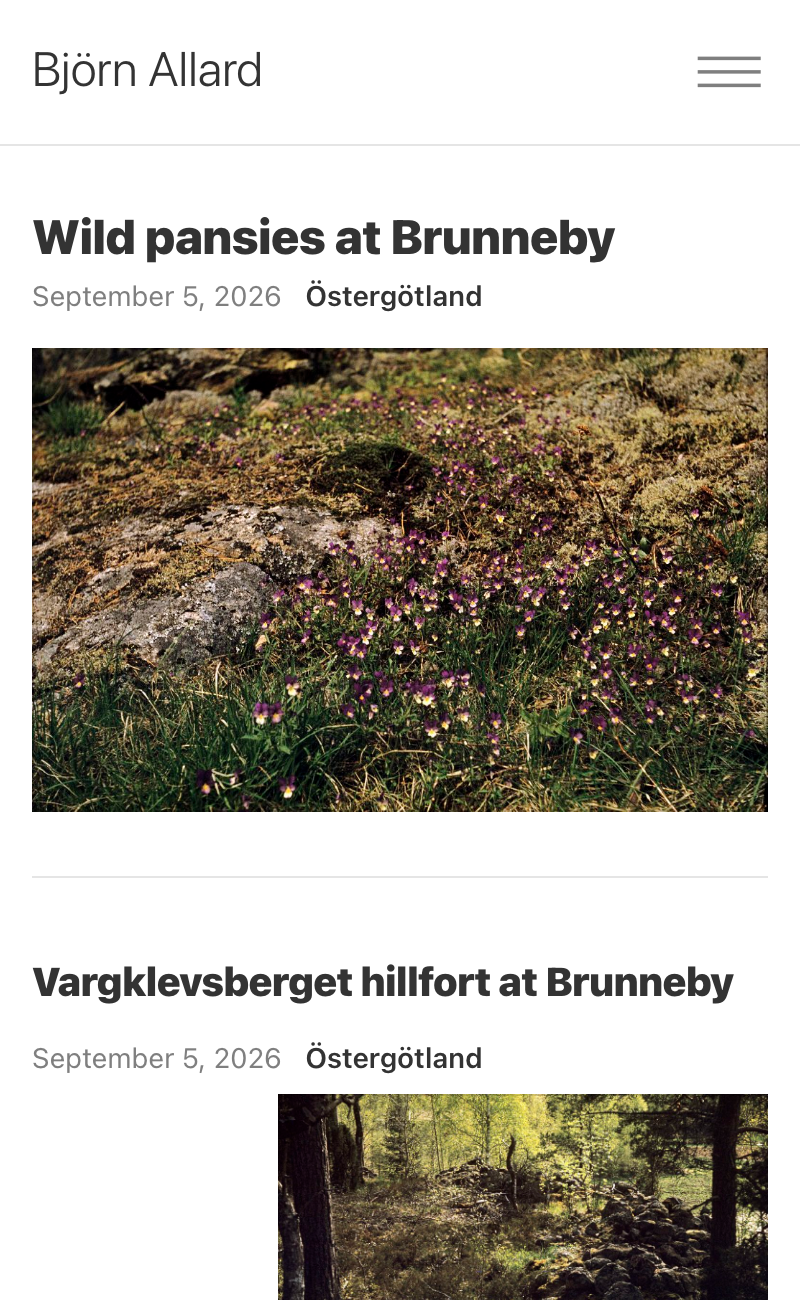
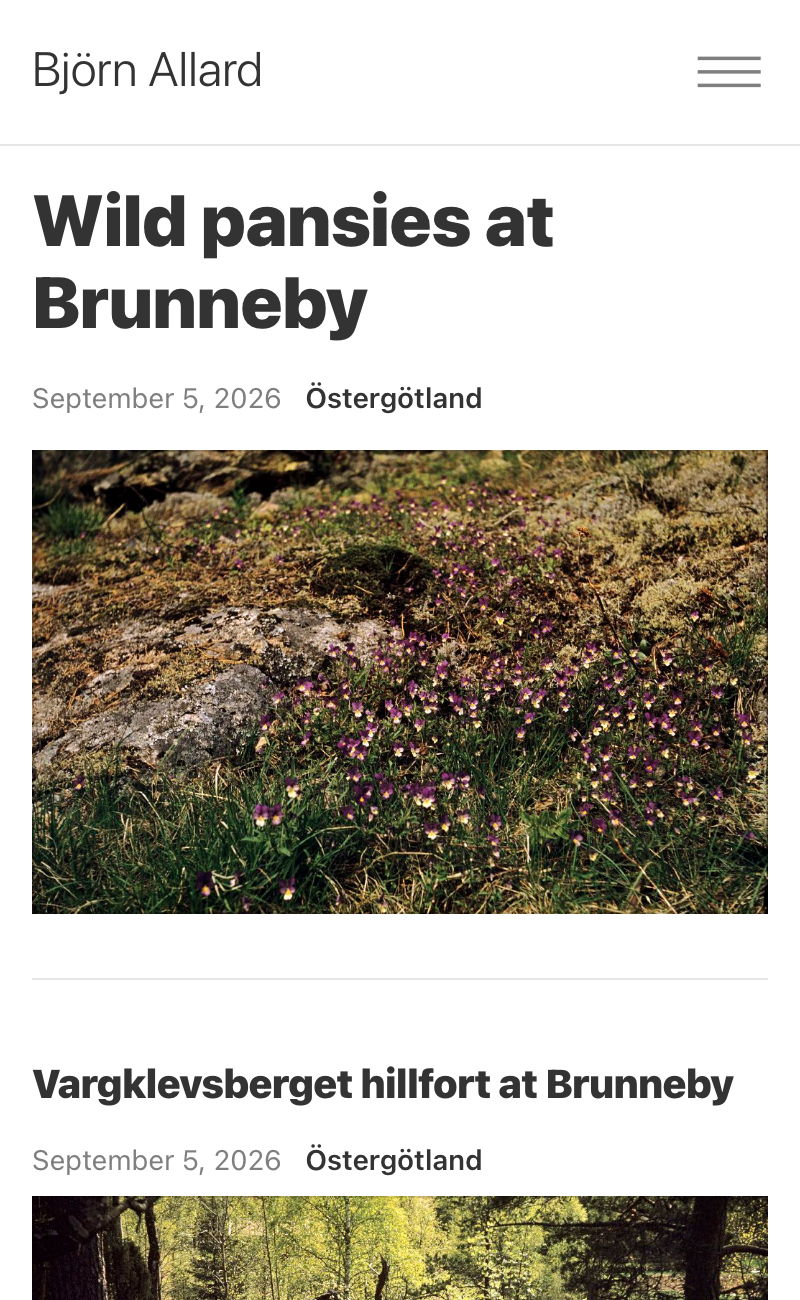
Fix Magazine homepage hero and index grid

diff --git a/app/templates/source/magazine/_featured.html b/app/templates/source/magazine/_featured.html
@@ -1,50 +1,27 @@
-<a class="dim  pv4 db lh-copy no-underline   "  href="{{{url}}}">
-
-      {{#summary}}
-       <span class="db fr w-two-thirds">
-        <span class="db" style="max-height:23.4375rem;overflow:hidden">
-        {{#thumbnail.medium}}
-       <img class="thumbnail-frame" style="width:100%;vertical-align:bottom" src="{{{url}}}">
-        {{/thumbnail.medium}}
-        </span>
-
-      </span>
-      
-      <span class="db fl w-third" style="">
-      <span class="mr4 fw9 black-80 db lh-title f3 mb3 tracked-tight">{{title}}</span>
-      <span class="mr4 black-50 mr3 f6 lh-copy db" style="text-overflow:ellipsis;max-height:9.1875rem;overflow:hidden">{{summary}}</span>      
-     <span class=" db f6 mt4 " style="height:1.5em;overflow:hidden">
-        {{#date}}<span date-from-now="{{dateStamp}}" class="dib black-50 mr2">{{date}}</span>{{/date}}
-        <span class="dib fw6 clip-2 black-80">{{#tags}}<span class="dib">{{^first}} &amp; {{/first}}{{tag}}</span>{{/tags}}</span>
+<a class="dim pv4 db lh-copy no-underline" href="{{{url}}}">
+  <span class="db fr w-two-thirds">
+    <span class="db thumbnail-frame" style="max-height:23.4375rem;overflow:hidden">
+      {{#thumbnail.large}}
+      <img style="width:100%;vertical-align:bottom" src="{{{url}}}">
+      {{/thumbnail.large}}
+      {{^thumbnail.large}}
+      {{#thumbnail.medium}}
+      <img style="width:100%;vertical-align:bottom" src="{{{url}}}">
+      {{/thumbnail.medium}}
+      {{/thumbnail.large}}
     </span>
-      </span>
-      {{/summary}}
+  </span>
 
-      {{^summary}}
-      <span class="w-100" style="">
-        <span class=" fw9 black-80 db lh-title f3 tracked-tight">{{title}}</span>
+  <span class="db fl w-third">
+    <span class="mr4 fw9 black-80 db lh-title f3 mb3 tracked-tight">{{title}}</span>
+    {{#summary}}
+    <span class="mr4 black-50 f6 lh-copy db" style="text-overflow:ellipsis;max-height:9.1875rem;overflow:hidden">{{summary}}</span>
+    {{/summary}}
+    <span class="db f6 {{#summary}}mt4{{/summary}}{{^summary}}mt1{{/summary}}" style="height:1.5em;overflow:hidden">
+      {{#date}}<span date-from-now="{{dateStamp}}" class="dib black-50 mr2">{{date}}</span>{{/date}}
+      <span class="dib fw6 clip-2 black-80">{{#tags}}<span class="dib">{{^first}}&nbsp;&amp;&nbsp;{{/first}}{{tag}}</span>{{/tags}}</span>
+    </span>
+  </span>
 
-       <span class=" db f6 mt1 mb3" style="height:1.5em;overflow:hidden">
-          {{#date}}<span date-from-now="{{dateStamp}}" class="dib black-50 mr2">{{date}}</span>{{/date}}
-          <span class="dib fw6 clip-2 black-80">{{#tags}}<span class="dib">{{^first}} &amp; {{/first}}{{tag}}</span>{{/tags}}</span>
-      </span>
-
-
-        <span class="db">
-        {{#thumbnail.large}}
-       <img class="thumbnail-frame" style="width:100%;vertical-align:bottom" src="{{{url}}}">
-        {{/thumbnail.large}}
-        </span>
-      </span>
-      
-
-
-      {{/summary}}
-
-
-     
-      </span>
-
-
-      <span class="cf"></span>
-      </a>
+  <span class="cf"></span>
+</a>

diff --git a/app/templates/source/magazine/css-theme.css b/app/templates/source/magazine/css-theme.css
@@ -229,7 +229,6 @@ a:hover {color:{{accent_color}}}
 a.dim {transition: opacity .2s linear;opacity:1}
 a.dim:hover {opacity:0.8}
 a.dim:active {opacity:0.5}
-a.dim:visited {opacity:0.3}
   
 hr {
   margin: 3em auto;
@@ -386,6 +385,48 @@ figure cite, figure cite a {font-size:0.8rem;color:rgba({{#rgb}}{{text_color}}{{
   {{/heading_font}}
 }
 
+/* Homepage hero titles should follow the heading size control.
+   They are spans (not h1), so they otherwise stay at Tachyons .f3. */
+.featured-entry .lh-title {
+  {{#heading_font}}
+  font-size: {{font_size}}px;
+  line-height: {{line_height}};
+  {{/heading_font}}
+}
+
+/* Index rows used floats inside an inline flex wrapper, so percentage
+   columns sized against their contents and the hero/grid collapsed.
+   Flex with a definite width keeps title | image side by side. */
+.featured-entry > a,
+.entry-line {
+  display: flex;
+  flex-wrap: wrap;
+  align-items: flex-start;
+  width: 100%;
+  min-width: 0;
+}
+
+.featured-entry > a > .w-third,
+.featured-entry > a > .w-two-thirds,
+.entry-line > .w-third,
+.entry-line > .w-two-thirds {
+  float: none;
+}
+
+.featured-entry > a > .cf,
+.entry-line > .cf {
+  display: none;
+}
+
+/* Image is first in the featured markup (it used to float right). */
+.featured-entry > a > .w-third { order: 1; }
+.featured-entry > a > .w-two-thirds { order: 2; }
+
+.entry-line-rule {
+  flex-basis: 100%;
+  width: 100%;
+}
+
 /* Let the configured body line height reach the article body, which
    Tachyons' .lh-copy would otherwise pin to 1.5 */
 .entry .lh-copy {
@@ -416,6 +457,7 @@ h3.f6 {line-height:1.25;}
   .featured-entry .w-two-thirds,
   .featured-entry .w-third {width:50%}
   .entry-line .title-block {width:100%}
+  .entry-line .w-two-thirds {width:100%}
   .entry.w-80 {width:100%}
   /* Date and tags on entry page */
   .w-20.bl.fr {margin-top:0;padding-top:0;border:none;width:100%;float:none;padding-left:0;padding-bottom:2rem}
@@ -441,6 +483,7 @@ h3.f6 {line-height:1.25;}
 @media (max-width:500px) {
   .w-80.pr4 {padding-right:0;width:100%}
   .featured-entry .w-two-thirds,
+  .entry-line .w-two-thirds,
   .entry-line .w-third,    
   .featured-entry .w-third {width:100%}
   .entry-line .ml3,
@@ -450,7 +493,7 @@ h3.f6 {line-height:1.25;}
     margin-bottom:0.5rem;
     margin-top:0.5rem;
   }
-  .featured-entry .lh-title {margin-top:1rem}
+  .featured-entry .w-two-thirds {margin-top:1rem}
   .featured-entry a {padding-top:0}
   
   h3.f6 {font-size: 0.7rem;line-height: 1.8}

diff --git a/app/templates/source/magazine/entry_line.html b/app/templates/source/magazine/entry_line.html
@@ -1,18 +1,16 @@
 <a class="entry-line dim pb4 db lh-copy no-underline w-100" href="{{{url}}}">
-    
-  
-  <span class="{{^first}}bt{{/first}} mb4 db b--black-10"></span>
-  
-    
+
+  <span class="entry-line-rule {{^first}}bt{{/first}} mb4 db b--black-10"></span>
+
   <span class="w-third fl db mb2 title-block">
       <span class="mr4 db fw9 black-80  lh-title tracked-tight f4 pb2">{{title}}</span>
       <span class="mr3 db f6 " style="height:1.5em;overflow:hidden">
-          {{#date}}<span date-from-now="{{dateStamp}}" class="dib black-50 mr2">{{date}}</span>{{/date}} 
-          <span class="fw6 clip-2 black-80">{{#tags}}<span class="dib">{{^first}} &amp; {{/first}}{{tag}}</span>{{/tags}}</span>
+          {{#date}}<span date-from-now="{{dateStamp}}" class="dib black-50 mr2">{{date}}</span>{{/date}}
+          <span class="fw6 clip-2 black-80">{{#tags}}<span class="dib">{{^first}}&nbsp;&amp;&nbsp;{{/first}}{{tag}}</span>{{/tags}}</span>
       </span>
     </span>
 
-  
+
   {{#summary}}
 
   <span class="w-third db fr">
@@ -22,10 +20,10 @@
     {{/thumbnail.medium}}
     </span>
    </span>
-    
+
   <span class="w-third fl db">
     <span class="mr3 black-50 f6 db" style="text-overflow:ellipsis;max-height:9.1875rem;overflow:hidden">
-      {{summary}}  
+      {{summary}}
     </span>
   </span>
   {{/summary}}
@@ -33,17 +31,14 @@
   {{^summary}}
 
   <span class="w-two-thirds db fr">
-    <span class="db thumbnail-frame" style="overflow:hidden;">
+    <span class="db thumbnail-frame" style="max-height:14rem;overflow:hidden;">
     {{#thumbnail.large}}
     <img style="width:100%;vertical-align:bottom" src="{{{url}}}">
     {{/thumbnail.large}}
     </span>
    </span>
-    
+
   {{/summary}}
-
-
-   
 
   <span class="cf"></span>
 </a> 

diff --git a/app/templates/source/magazine/entries.html b/app/templates/source/magazine/entries.html
@@ -25,7 +25,7 @@
 {{^pagination.previous}}
 
 {{#show_featured_entry}}
-<div class="clip-1 mt3 featured-entry" style="display:flex;flex-direction:row;flex-wrap:  wrap">
+<div class="clip-1 mt3 featured-entry">
   {{#posts}}
   {{#first}}
   {{#thumbnail.large.url}}
@@ -36,7 +36,7 @@
 </div>
 {{/show_featured_entry}}
 
-<div style="display:flex;flex-direction:row;flex-wrap:wrap"   {{#show_featured_entry}}{{#posts}} {{#first}} {{#thumbnail.large}} class="skip-1" {{/thumbnail.large}} {{/first}} {{/posts}}{{/show_featured_entry}}>
+<div class="magazine-posts{{#show_featured_entry}}{{#posts}}{{#first}}{{#thumbnail.large}} skip-1{{/thumbnail.large}}{{/first}}{{/posts}}{{/show_featured_entry}}">
 
   {{#posts}}
   {{> entry_line}}
